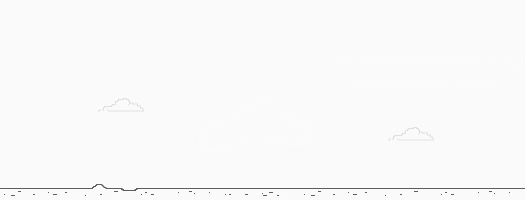
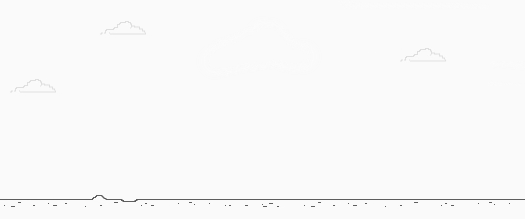
projeto modificado

diff --git a/script.js b/script.js
@@ -1,4 +1,5 @@
 const dino = document.querySelector('.dino');
+const score = document.querySelector('.score');
 const background = document.querySelector('.background');
 
 let isJumping = false;
@@ -7,17 +8,48 @@ let position = 0;
 let count = 0;
 
 function handleKeyUp(event) {
-    if (event.keyCode === 32 && !isJumping) jump();
+    if (event.keyCode === 32) {
+
+        if (!isJumping) jump();
+
+        //inicia jogo
+        if (count === 0) {
+            background.style.backgroundRepeat = "repeat-x";
+            background.style.animation = "slideRight 600s infinite linear"
+            createCactus();
+
+            var xCount = setInterval(() => {
+
+                if (isGameOver) {
+                    clearInterval(xCount);                    
+                    return;
+                }
+
+                count++;
+                score.innerHTML = "Pontuação: " +  ("0000" + count).slice(-4);
+
+                if (dino.style.backgroundImage.toString().indexOf("images/t-rex3.png") > -1) {
+                    dino.style.backgroundImage = "url('./images/t-rex4.png')";
+                } else {
+                    dino.style.backgroundImage = "url('./images/t-rex3.png')";
+                }
+
+            }, 300);
+
+        }
+    }
 }
 
 function jump() {
+    if (isGameOver) return
     isJumping = true;
+    dino.style.backgroundImage = "url('./images/t-rex1.png')";
 
     let upInterval = setInterval(() => {
         if (position >= 150) {
             //descendo
             clearInterval(upInterval);
-            
+
             let downInterval = setInterval(() => {
                 if (position <= 0) {
                     clearInterval(downInterval);
@@ -37,24 +69,32 @@ function jump() {
 
 function createCactus() {
     const cactus = document.createElement('div');
-    let cactusPosition = 1000;
-    let randomTime = Math.random() * 6000;
+    let cactusPosition = 1200;
+    let randomTime = Math.random() * 6500;
+
+    if (isGameOver) return;
 
     cactus.classList.add('cactus');
     background.appendChild(cactus);
     cactus.style.left = cactusPosition + 'px';
-    
+
     let leftInterval = setInterval(() => {
-        if (cactusPosition < -60) {
+        if (cactusPosition < 0) {
             //saiu da tela
             clearInterval(leftInterval);
             background.removeChild(cactus);
-        } else if (cactusPosition > 0 && cactusPosition < 60 && position < 60) {
+        } else if (cactusPosition > 0 && cactusPosition < 60 && position < 60 && !isJumping) {
             //game over
             isGameOver = true;
             clearInterval(leftInterval);
-            document.body.innerHTML = '<h1 class="game-over">Fim de jogo<h1>';
+            dino.style.backgroundImage = "url('./images/t-rex5.png')";
+            background.style.backgroundRepeat = "none";
+            background.style.animation = "none";
+            const info = document.createElement('div');
+            info.innerHTML = '<h1 class="game-over">Fim de jogo<h1>';
+            document.body.appendChild(info);            
         } else {
+            //move cactus
             cactusPosition -= 10;
             cactus.style.left = cactusPosition + 'px';
         }
@@ -64,6 +104,6 @@ function createCactus() {
 
 }
 
-createCactus();
+
 document.addEventListener('keyup', (handleKeyUp));
 

diff --git a/style.css b/style.css
@@ -1,5 +1,26 @@
-.body {
-    background: #fafafa;
+* {
+    padding: 0;
+    margin: 0;
+    box-sizing: border-box;
+    text-decoration: none; 
+}
+
+body {
+    width: 100%;
+    min-height: 100vh;
+    background-color: #fafafa;
+    display: flex;
+    flex-direction: column;
+}
+
+.background {
+    position: absolute;
+    width: 100%;
+    height: 210px;
+    background-image: url("./images/background.png");
+    top: 50%;
+    margin-top: -125px;
+    bottom: 0%;
 }
 
 .dino {
@@ -7,7 +28,7 @@
     width: 60px;
     height: 60px;
     bottom: 0;
-    background-image: url("./images/dino.png");
+    background-image: url("./images/t-rex1.png");
 }
 
 .cactus {
@@ -21,24 +42,25 @@
 .game-over {
     text-align: center;
     color: #666666;
-    margin-top: 50px 0;
-    font-family: Arial, Helvetica, sans-serif;
+    margin-top: 10% 0;
+    font-family: Georgia, 'Times New Roman', Times, serif;
+}
+
+.score {
+    color: #666666;
+    text-align: right;
+    font-family: 'Courier New', Courier, monospace;
+    font-stretch: ultra-condensed;    
+    margin-top: 10%;   
+    margin-right: 50px;
 }
 
 @keyframes slideRight {
     from {
         background-position: 70000%;
-    } to {
+    }
+
+    to {
         background-position: 0%;
     }
-}
-
-.background {
-    position: absolute;   
-    bottom: 0;
-    background-image: url("./images/background.png");
-    background-repeat: repeat-x;
-    animation: slideRight 600s infinite linear;
-    width: 100%;
-    height: 200px;
 }

diff --git a/index.html b/index.html
@@ -9,6 +9,7 @@
 </head>
 
 <body>
+    <h4 class="score">0000</h4>
     <div class="background">
         <div class="dino">
         </div>
